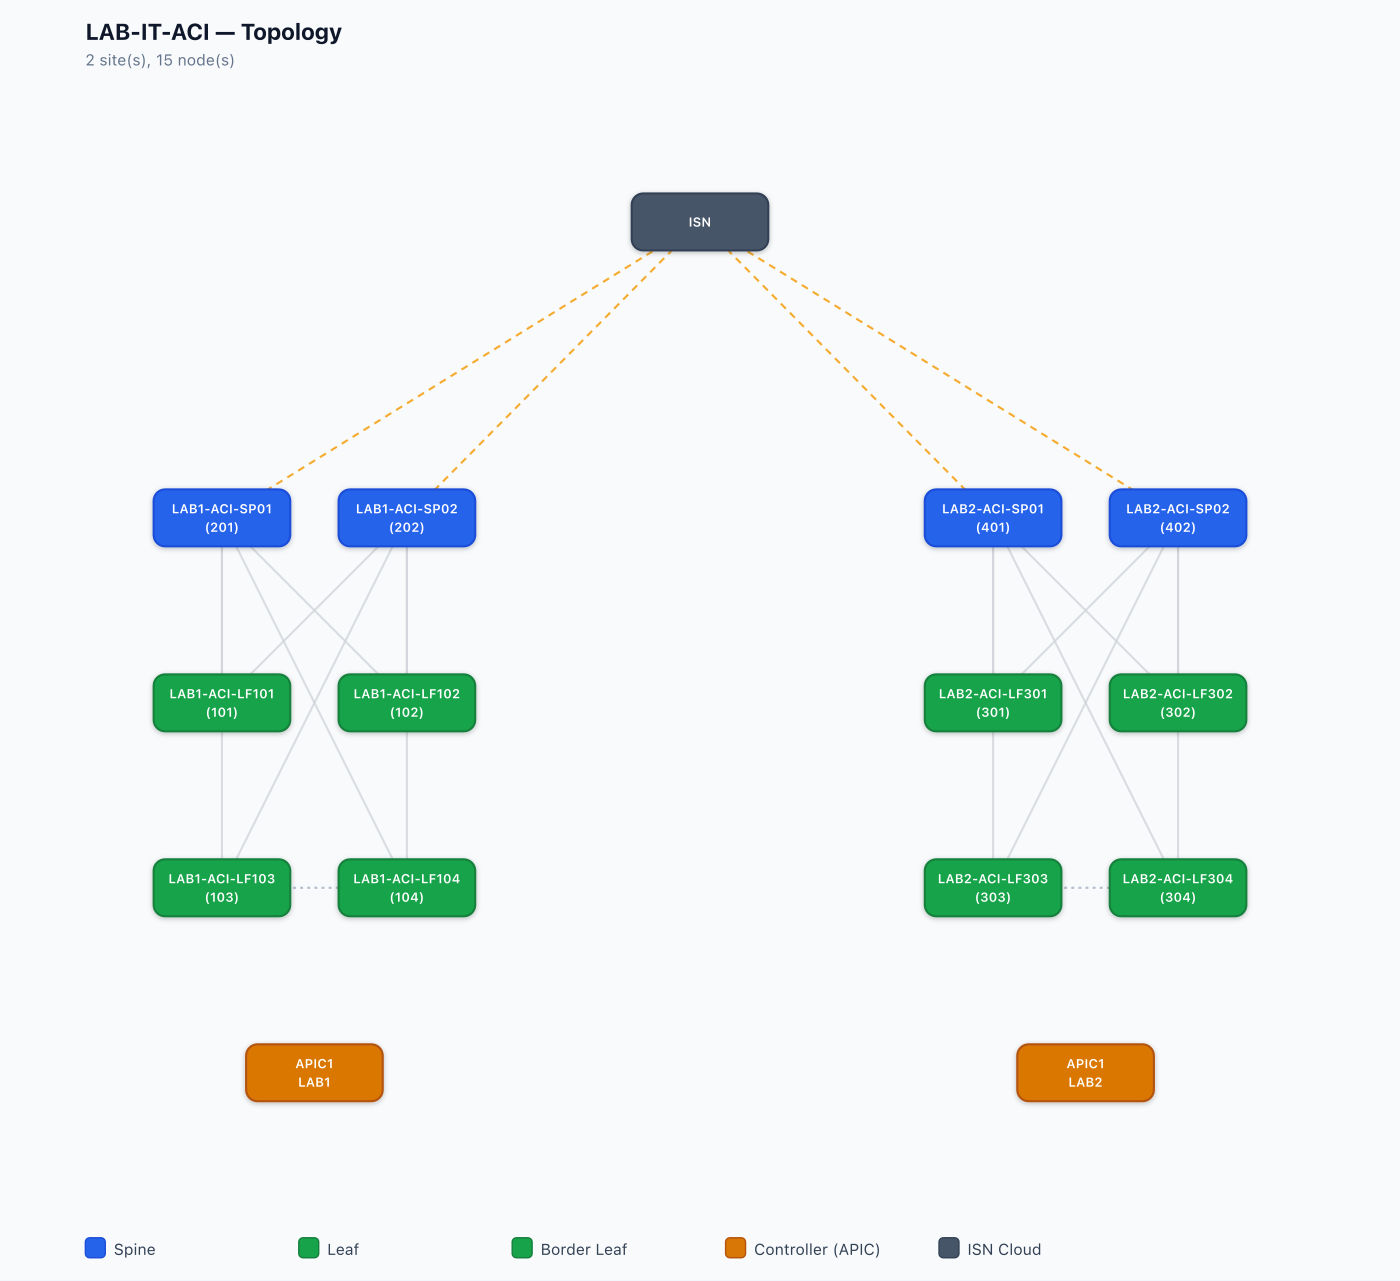
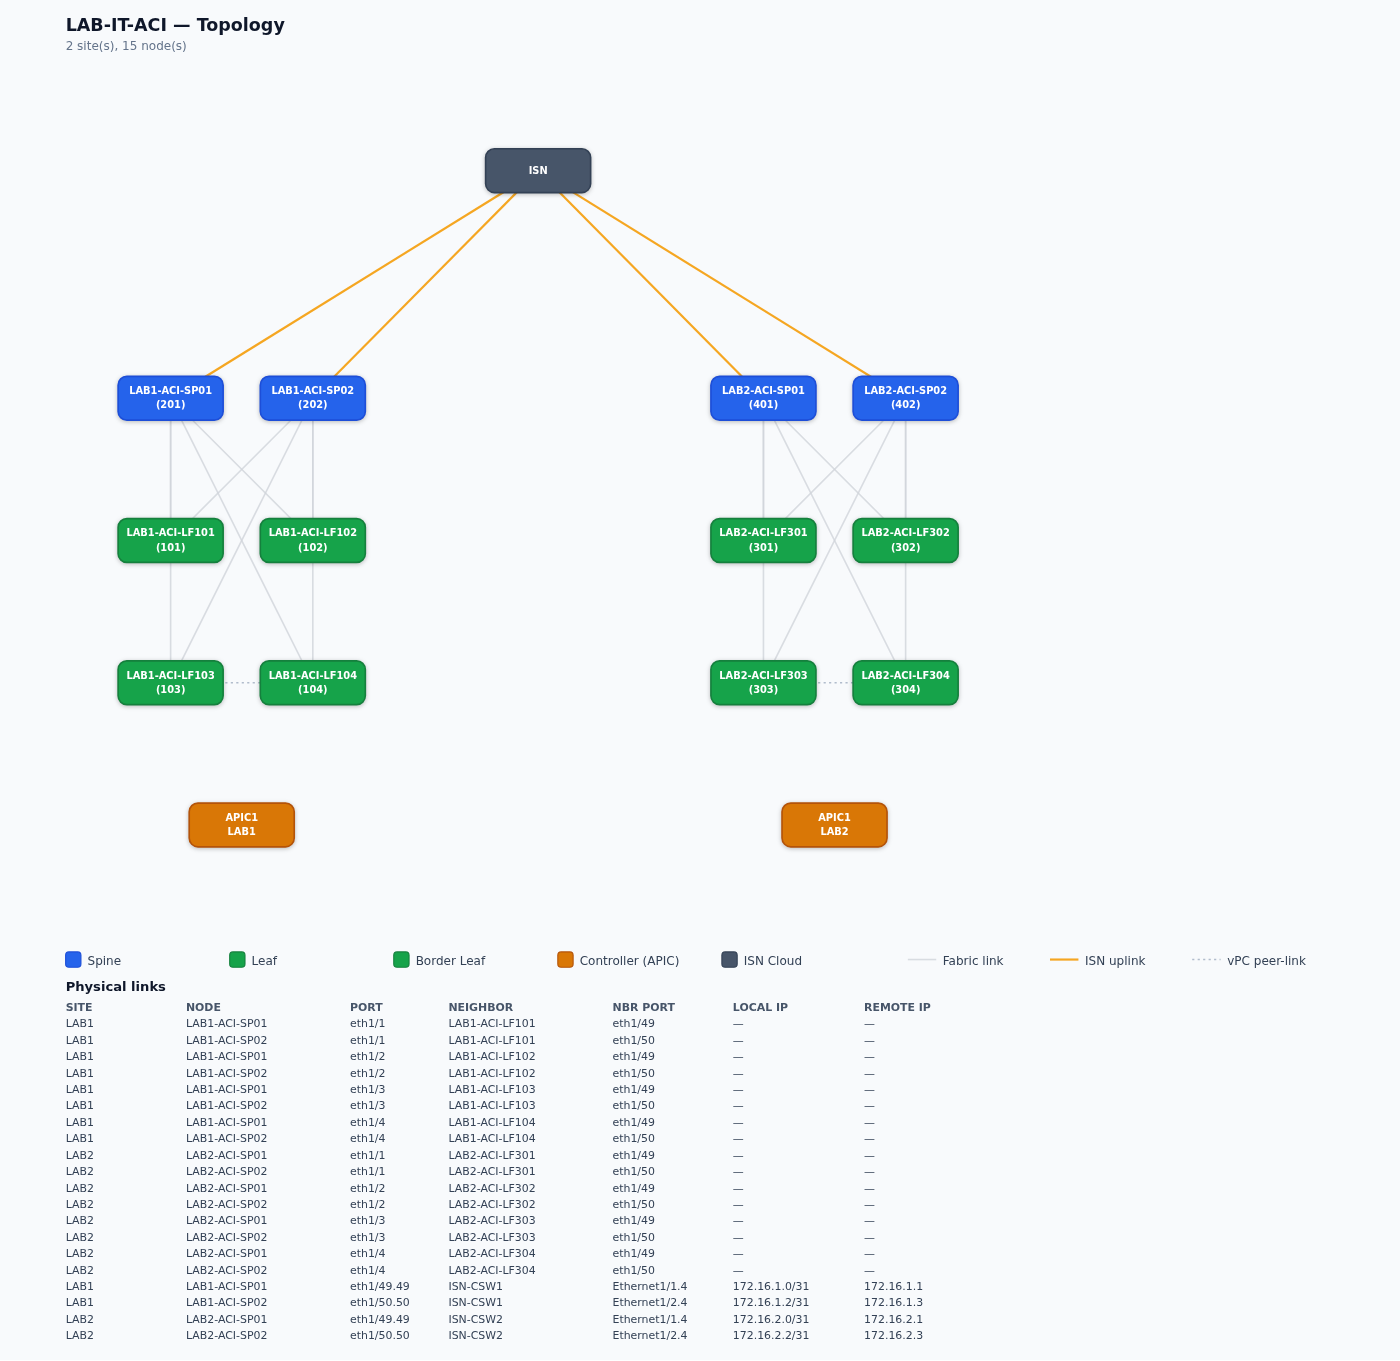
fix(graph): legend min-width on narrow diagrams; regenerate README topology image (v0.20.2)

diff --git a/aci_sim/graph.py b/aci_sim/graph.py
@@ -368,6 +368,11 @@ def _svg_body(graph: Graph, topo: Topology) -> tuple[str, int, int]:
         max_x = max_y = 0.0
 
     width = int(max_x - min_x + 2 * MARGIN)
+    # A narrow diagram (few nodes) must still fit the single-row legend
+    # (role swatches at 150px pitch + three link-type samples at 130px) —
+    # otherwise the ISN-uplink/vPC legend entries clip off the right edge.
+    _roles_n = len([r for r in LEGEND_ORDER if any(n.role == r for n in graph.nodes)])
+    width = max(width, int(2 * MARGIN + _roles_n * 150 + 20 + 3 * 130))
     height = int(max_y - min_y + 2 * MARGIN + TITLE_H + LEGEND_H)
 
     # Shift everything so the drawing starts at (MARGIN, MARGIN + TITLE_H).

diff --git a/CHANGELOG.md b/CHANGELOG.md
@@ -6,6 +6,18 @@ The format is based on [Keep a Changelog](https://keepachangelog.com/en/1.1.0/),
 and this project adheres to [Semantic Versioning](https://semver.org/spec/v2.0.0.html)
 (pre-1.0: minor bumps may include breaking changes to the sim's behavior).
 
+## [0.20.2] - 2026-07-07
+
+### Fixed
+- `aci-sim graph`: the single-row legend (role swatches + link-type samples)
+  clipped off the right edge on narrow diagrams (few nodes) — the SVG width
+  now accounts for the legend's minimum width.
+
+### Docs
+- README: regenerated the embedded topology diagram with the v0.20 renderer
+  (solid ISN uplinks, link-type legend, physical-links table with /31
+  point-to-point ISN addressing) + caption updated.
+
 ## [0.20.1] - 2026-07-07
 
 ### Docs

diff --git a/README.md b/README.md
@@ -36,7 +36,8 @@ from a single `topology.yaml`.
 
 *A 2-site, 15-node fabric rendered by `aci-sim graph` — spines (blue),
 leaves/border-leaves (green), controllers (amber), and the inter-site ISN
-cloud (slate). See §5's `aci-sim graph` for how to generate your own.*
+cloud (slate) — solid orange ISN uplinks, plus a physical-links table with
+the /31 point-to-point ISN addressing. See §5's `aci-sim graph` for how to generate your own.*
 
 ### 60-second quickstart
 
